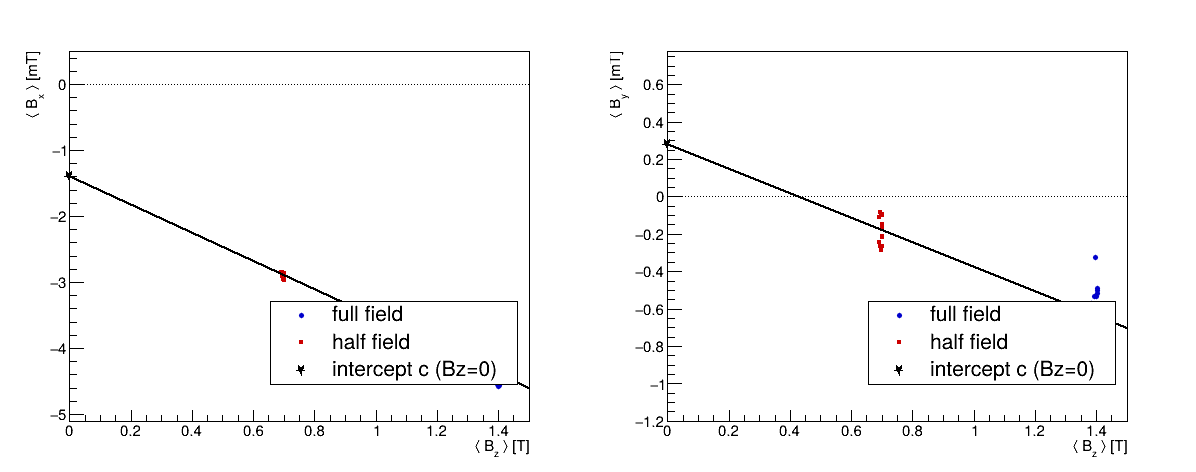
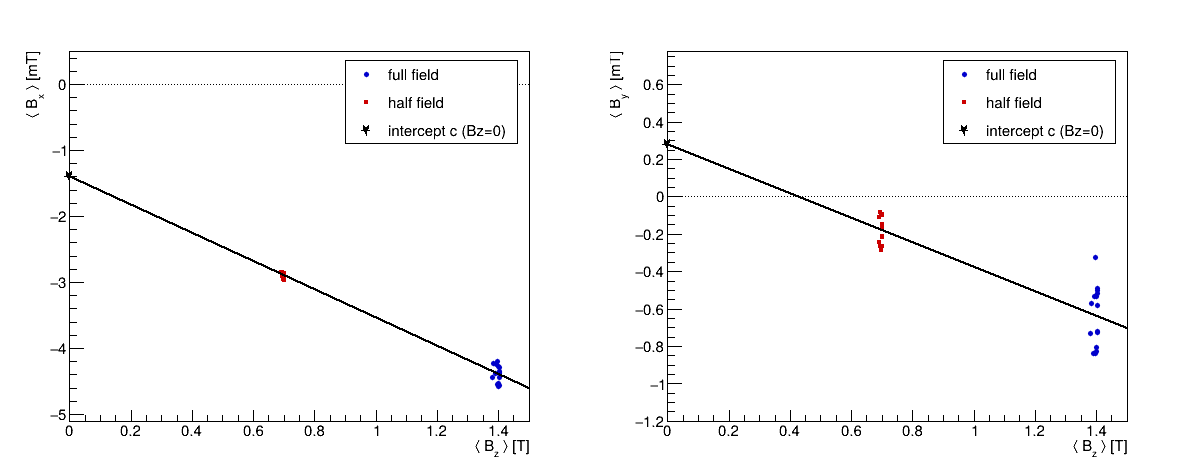
checkHalfField: move B_perp-vs-Bz legends out of the data
The legends sat lower-right, over the points (<B_perp> grows negative with Bz,
so the data fill the lower half). Move them to the empty top-right corner and
regenerate the figures.

diff --git a/analysis/checkHalfField.C b/analysis/checkHalfField.C
@@ -451,7 +451,9 @@ void checkHalfField(const char* datadir = "data", const char* outdir = "plots")
         TLine* lf=new TLine(0.0,y0,1.5,y1); lf->SetLineColor(kBlack); lf->SetLineWidth(2); lf->Draw();
         TLine* l0=new TLine(0.0,0.0,1.5,0.0); l0->SetLineStyle(3); l0->Draw();
         TMarker* mc=new TMarker(0.0,y0,29); mc->SetMarkerColor(kBlack); mc->SetMarkerSize(1.6); mc->Draw();
-        TLegend* lg=new TLegend(0.45,0.18,0.88,0.36);
+        // data fall in the lower half (<B_perp> grows negative with Bz), so the
+        // legend goes top-right where the plot is empty
+        TLegend* lg=new TLegend(0.58,0.70,0.88,0.88);
         lg->AddEntry(gF,"full field","p"); lg->AddEntry(gH,"half field","p");
         lg->AddEntry(mc,"intercept c (Bz=0)","p"); lg->Draw();
     };
